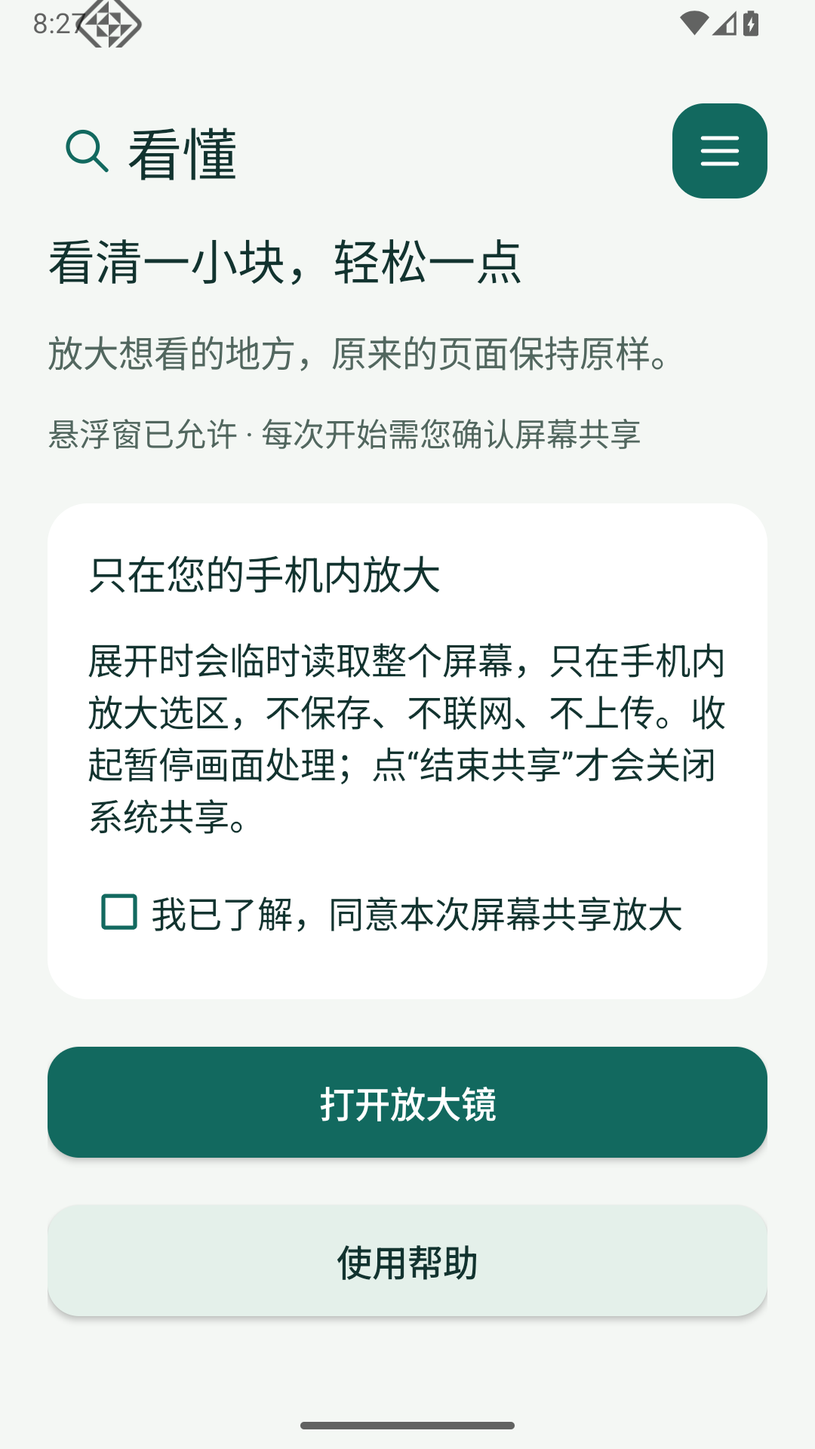
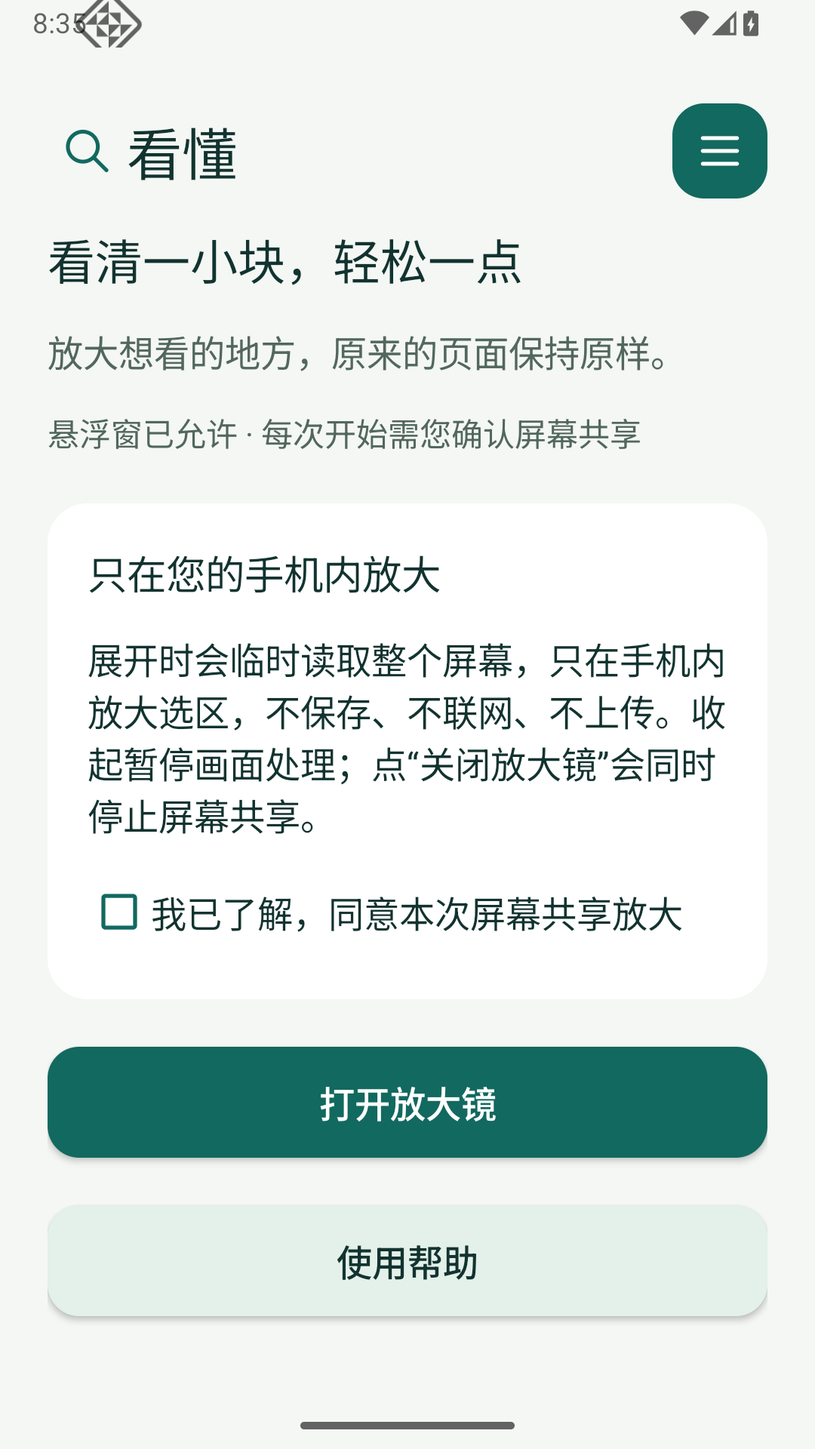
fix(compat): simplify menu navigation and session close labels

diff --git a/compat/src/main/java/com/kandong/compat/CompatUi.kt b/compat/src/main/java/com/kandong/compat/CompatUi.kt
@@ -9,7 +9,7 @@ import android.view.*
 import android.widget.*
 import kotlin.math.roundToInt
 
-internal enum class LineIcon { MAGNIFY, MENU, COLLAPSE, END, MOVE, RESIZE, CLOSE }
+internal enum class LineIcon { MAGNIFY, MENU, COLLAPSE, END, MOVE, RESIZE, CLOSE, BACK }
 internal class IconView(context: Context, private val icon: LineIcon, private val ink: Int = Color.WHITE) : View(context) {
     var corner = GripSide(true, true)
         set(value) { field = value; invalidate() }
@@ -24,6 +24,7 @@ internal class IconView(context: Context, private val icon: LineIcon, private va
             LineIcon.MENU -> { line(4f,6f,20f,6f); line(4f,12f,20f,12f); line(4f,18f,20f,18f) }
             LineIcon.COLLAPSE -> line(5f,16f,19f,16f)
             LineIcon.END, LineIcon.CLOSE -> { line(5f,5f,19f,19f); line(19f,5f,5f,19f) }
+            LineIcon.BACK -> { line(19f,12f,5f,12f); line(5f,12f,11f,6f); line(5f,12f,11f,18f) }
             LineIcon.MOVE -> {
                 line(3f,12f,21f,12f); line(12f,3f,12f,21f)
                 line(3f,12f,6f,9f); line(3f,12f,6f,15f); line(21f,12f,18f,9f); line(21f,12f,18f,15f)
@@ -45,9 +46,9 @@ internal object CompatUi {
     val muted = Color.rgb(82,103,95)
     val teal = Color.rgb(18,105,95)
     val soft = Color.rgb(228,240,234)
-    const val disclosure = "展开时会临时读取整个屏幕，只在手机内放大选区，不保存、不联网、不上传。收起暂停画面处理；点“结束共享”才会关闭系统共享。"
-    const val help = "1. 允许悬浮窗，勾选本次同意，再按提示允许屏幕共享。\n\n2. 拖动十字手柄移动取景框；拖动箭头手柄分别调节宽和高。\n\n3. 下方滑杆单独调节1到5倍，每次新使用默认2倍。放大后可在画面内滑动查看。镜面会自动上下避让。\n\n4. 到达屏幕边缘时，看到“松手贴边”后松开。取景框内仍可操作原来的页面。\n\n5. 点收起可暂时放到屏幕边缘；轻点圆球恢复，拖动可换位置，长按打开菜单。\n\n6. 点“× 关闭”按钮或菜单中的“结束共享”可关闭。锁屏或转动屏幕后需要重新开始。"
-    const val privacy = "屏幕共享由您每次亲自授权。系统会提供整屏缓冲区，看懂只在手机内复制选区用于放大，不录制、不保存、不上传，也不采集页面文字。\n\n收起或打开菜单时暂停画面采集并清除已有画面，但系统屏幕共享会话仍保留。结束共享后释放本次投屏资源。\n\n查看密码、银行等私密页面前，请先结束共享。受保护的画面可能显示为空白。\n\n目前无需登录。区域翻译、账号和订阅尚未提供；屏幕共享授权不代表同意文字识别或AI处理。"
+    const val disclosure = "展开时会临时读取整个屏幕，只在手机内放大选区，不保存、不联网、不上传。收起暂停画面处理；点“关闭放大镜”会同时停止屏幕共享。"
+    const val help = "1. 允许悬浮窗，勾选本次同意，再按提示允许屏幕共享。\n\n2. 拖动十字手柄移动取景框；拖动箭头手柄分别调节宽和高。\n\n3. 下方滑杆单独调节1到5倍，每次新使用默认2倍。放大后可在画面内滑动查看。镜面会自动上下避让。\n\n4. 到达屏幕边缘时，看到“松手贴边”后松开。取景框内仍可操作原来的页面。\n\n5. 点收起可暂时放到屏幕边缘；轻点圆球恢复，拖动可换位置，长按打开菜单。\n\n6. 点“× 关闭”按钮或菜单中的“关闭放大镜”会停止放大和屏幕共享。锁屏或转动屏幕后需要重新开始。"
+    const val privacy = "屏幕共享由您每次亲自授权。系统会提供整屏缓冲区，看懂只在手机内复制选区用于放大，不录制、不保存、不上传，也不采集页面文字。\n\n收起或打开菜单时暂停画面采集并清除已有画面，但系统屏幕共享会话仍保留。关闭放大镜后，屏幕共享也会停止。\n\n查看密码、银行等私密页面前，请先关闭放大镜。受保护的画面可能显示为空白。\n\n目前无需登录。区域翻译、账号和订阅尚未提供；屏幕共享授权不代表同意文字识别或AI处理。"
     fun dp(c: Context, n: Int) = (n * c.resources.displayMetrics.density).roundToInt().coerceAtLeast(1)
     fun shape(c: Context, color: Int, radius: Int = 20) = GradientDrawable().apply { setColor(color); cornerRadius = dp(c,radius).toFloat() }
     fun ripple(c: Context, color: Int, radius: Int = 16) = RippleDrawable(ColorStateList.valueOf(0x337CA99A),shape(c,color,radius),shape(c,Color.WHITE,radius))
@@ -76,23 +77,53 @@ internal object CompatUi {
         setPadding(dp(c,16),dp(c,10),dp(c,16),dp(c,10)); setOnClickListener { action() }
     }
     fun menu(c: Context, page: String?, close: () -> Unit, navigate: (String?) -> Unit, end: (() -> Unit)?): LinearLayout {
-        val body = LinearLayout(c).apply { orientation = LinearLayout.VERTICAL; setPadding(dp(c,20),dp(c,16),dp(c,20),dp(c,20)); background = shape(c,CompatUi.background) }
-        body.addView(text(c,page ?: "看懂",24f))
-        fun row(title: String, action: () -> Unit) { body.addView(button(c,title,action=action),LinearLayout.LayoutParams(-1,-2).apply { topMargin=dp(c,8) }) }
+        val header = LinearLayout(c).apply {
+            gravity=Gravity.CENTER_VERTICAL; minimumHeight=dp(c,56)
+            setPadding(dp(c,8),dp(c,8),dp(c,8),0)
+        }
+        fun headerIcon(icon: LineIcon, label: String, action: () -> Unit) = IconView(c,icon,ink).apply {
+            contentDescription=label; tooltipText=label; isFocusable=true
+            background=ripple(c,Color.TRANSPARENT)
+            setOnClickListener { action() }
+        }
+        if(page != null) header.addView(headerIcon(LineIcon.BACK,"返回主菜单") { navigate(null) },
+            LinearLayout.LayoutParams(dp(c,48),dp(c,48)))
+        else header.addView(View(c),LinearLayout.LayoutParams(dp(c,48),dp(c,48)))
+        header.addView(text(c,page ?: "菜单",22f).apply { gravity=Gravity.CENTER },
+            LinearLayout.LayoutParams(0,-2,1f))
+        header.addView(headerIcon(LineIcon.CLOSE,"关闭菜单",close),
+            LinearLayout.LayoutParams(dp(c,48),dp(c,48)))
+
+        val body = LinearLayout(c).apply {
+            orientation=LinearLayout.VERTICAL
+            setPadding(dp(c,20),dp(c,8),dp(c,20),dp(c,20))
+        }
+        fun row(title: String, action: () -> Unit) {
+            body.addView(button(c,title,action=action),LinearLayout.LayoutParams(-1,-2).apply { topMargin=dp(c,8) })
+        }
         if(page == null) {
-            row("使用帮助") { navigate("使用帮助") }; row("隐私说明") { navigate("隐私说明") }
-            for(title in listOf("区域翻译设置","账号与订阅")) body.addView(text(c,"$title · 规划中，暂不可用",16f,muted).apply { isEnabled=false; minimumHeight=dp(c,48) })
+            row("使用帮助") { navigate("使用帮助") }
+            row("隐私说明") { navigate("隐私说明") }
+            for(title in listOf("区域翻译设置","账号与订阅")) {
+                body.addView(text(c,"$title · 规划中，暂不可用",16f,muted).apply { isEnabled=false; minimumHeight=dp(c,48) })
+            }
             body.addView(text(c,"目前无需登录",14f,muted))
-        } else { body.addView(text(c,if(page=="使用帮助") help else privacy)); row("返回菜单") { navigate(null) } }
+        } else body.addView(text(c,if(page=="使用帮助") help else privacy))
+
         return LinearLayout(c).apply {
             orientation=LinearLayout.VERTICAL; background=shape(c,CompatUi.background)
+            addView(header,LinearLayout.LayoutParams(-1,-2))
             addView(ScrollView(c).apply { addView(body) },LinearLayout.LayoutParams(-1,0,1f))
-            val footer=LinearLayout(c).apply {
-                orientation=LinearLayout.VERTICAL; setPadding(dp(c,20),dp(c,8),dp(c,20),dp(c,16))
-                addView(button(c,"关闭菜单",action=close),LinearLayout.LayoutParams(-1,-2))
-                if(end!=null) addView(button(c,"结束共享",action=end),LinearLayout.LayoutParams(-1,-2).apply { topMargin=dp(c,8) })
+            // Session actions belong to the main menu, never to informational subpages.
+            if(page == null && end != null) {
+                val footer=LinearLayout(c).apply {
+                    orientation=LinearLayout.VERTICAL
+                    setPadding(dp(c,20),dp(c,8),dp(c,20),dp(c,12))
+                    addView(button(c,"关闭放大镜",action=end),LinearLayout.LayoutParams(-1,-2))
+                    addView(text(c,"同时停止屏幕共享",14f,muted).apply { gravity=Gravity.CENTER })
+                }
+                addView(footer,LinearLayout.LayoutParams(-1,-2))
             }
-            addView(footer,LinearLayout.LayoutParams(-1,-2))
         }
     }
 }

diff --git a/compat/src/main/java/com/kandong/compat/ProjectionMagnifierService.kt b/compat/src/main/java/com/kandong/compat/ProjectionMagnifierService.kt
@@ -186,8 +186,8 @@ class ProjectionMagnifierService : Service() {
         val paused = !uiState.capturing
         val notification = Notification.Builder(this, "magnifier").setSmallIcon(R.drawable.ic_magnifier)
             .setContentTitle(if(paused) "看懂已暂停画面采集" else "看懂正在本机放大屏幕")
-            .setContentText(if(paused) "屏幕共享会话仍保留，可恢复或结束共享" else "点开看懂可收起或结束共享")
-            .setContentIntent(open).addAction(Notification.Action.Builder(null,"结束共享",stop).build()).setOngoing(true).build()
+            .setContentText(if(paused) "屏幕共享会话仍保留，可恢复或关闭放大镜" else "点开看懂可收起或关闭放大镜")
+            .setContentIntent(open).addAction(Notification.Action.Builder(null,"关闭放大镜",stop).build()).setOngoing(true).build()
         startForeground(1, notification, ServiceInfo.FOREGROUND_SERVICE_TYPE_MEDIA_PROJECTION)
     }
     private fun awaitFrame() {
@@ -248,7 +248,7 @@ class ProjectionMagnifierService : Service() {
                 override fun onInitializeAccessibilityNodeInfo(host: View, info: android.view.accessibility.AccessibilityNodeInfo) {
                     super.onInitializeAccessibilityNodeInfo(host,info)
                     info.addAction(android.view.accessibility.AccessibilityNodeInfo.AccessibilityAction(0x01020001,"打开菜单"))
-                    info.addAction(android.view.accessibility.AccessibilityNodeInfo.AccessibilityAction(0x01020002,"结束共享"))
+                    info.addAction(android.view.accessibility.AccessibilityNodeInfo.AccessibilityAction(0x01020002,"关闭放大镜"))
                 }
                 override fun performAccessibilityAction(host: View, action: Int, args: Bundle?): Boolean = when(action) {
                     0x01020001 -> { transition { uiState.menu() }; true }
@@ -349,7 +349,7 @@ class ProjectionMagnifierService : Service() {
         message=TextView(this).apply { textSize=14f; setTextColor(Color.WHITE); gravity=Gravity.CENTER; maxLines=2 }
             .also { header.addView(it,LinearLayout.LayoutParams(0,-1,1f)) }
         tool(LineIcon.COLLAPSE,"收起放大镜","收起") { transition { uiState.collapse() } }
-        tool(LineIcon.END,"结束共享","关闭") { endSession() }
+        tool(LineIcon.END,"关闭放大镜","关闭") { endSession() }
         imageView = ImageView(this).apply {
             setBackgroundColor(Color.WHITE); scaleType = ImageView.ScaleType.MATRIX
             contentDescription = "取景框区域的原文放大画面；可在画面内滑动查看"

diff --git a/compat/src/main/java/com/kandong/compat/MainActivity.kt b/compat/src/main/java/com/kandong/compat/MainActivity.kt
@@ -65,7 +65,7 @@ class MainActivity : Activity() {
                 }
             }
         }.also { body.addView(it,LinearLayout.LayoutParams(-1,-2)) }
-        end=CompatUi.button(this,"结束共享") { command(ProjectionMagnifierService.ACTION_STOP) }
+        end=CompatUi.button(this,"关闭放大镜") { command(ProjectionMagnifierService.ACTION_STOP) }
             .also { body.addView(it,LinearLayout.LayoutParams(-1,-2).apply { topMargin=dp(12) }) }
         body.addView(CompatUi.button(this,"使用帮助") { openMenu("使用帮助") },LinearLayout.LayoutParams(-1,-2).apply { topMargin=dp(24) })
         val scroll=ScrollView(this).apply { setBackgroundColor(CompatUi.background); isFillViewport=true; addView(body) }
@@ -95,7 +95,21 @@ class MainActivity : Activity() {
         dialog?.dismiss()
         dialog=AlertDialog.Builder(this).create().apply {
             setView(CompatUi.menu(this@MainActivity,page,{dismiss()},{openMenu(it)},null))
+            setOnKeyListener { _, key, event ->
+                if(Build.VERSION.SDK_INT < 33 && page != null && key == KeyEvent.KEYCODE_BACK) {
+                    if(event.action == KeyEvent.ACTION_UP && isShowing && dialog === this) openMenu(null)
+                    true
+                } else false
+            }
             show(); window?.addFlags(WindowManager.LayoutParams.FLAG_SECURE)
+            if(Build.VERSION.SDK_INT >= 33 && page != null) {
+                val dispatcher=onBackInvokedDispatcher
+                val callback=android.window.OnBackInvokedCallback {
+                    if(isShowing && dialog === this) openMenu(null)
+                }
+                dispatcher.registerOnBackInvokedCallback(android.window.OnBackInvokedDispatcher.PRIORITY_DEFAULT,callback)
+                setOnDismissListener { dispatcher.unregisterOnBackInvokedCallback(callback) }
+            }
             window?.setLayout(minOf(dp(360),resources.displayMetrics.widthPixels-dp(32)),(resources.displayMetrics.heightPixels*.8f).toInt())
         }
     }

diff --git a/docs/VALIDATION.md b/docs/VALIDATION.md
@@ -173,3 +173,11 @@ AO只读设计202.6秒、实现347.4秒、独立审查164.0秒，未追加重复
 旧节点高亮原型不是当前放大镜验收。历史16单测通过，单项边框/触摸测试曾通过，但最后完整套件3项中1项失败（窗口时序保守拒绝）；已冻结至 `experiments/guidance`。`phase0-highlight.png` 是旧高亮图，不作为放大镜证据。
 
 图标补充修订为NORMAL局部UI修改：debug/release构建与Lint再次通过（`/private/tmp/kandong-icons-build.log`），复用39项逻辑测试证据，未为绘图/文案新增测试。专用模拟器实际点按新48dp工具按钮完成收起→恢复→关闭，全部窗口及共享释放；未改变会话逻辑。自身首页截图已更新，悬浮窗口仍受保护，最终图标可理解性由手机实看确认。
+
+## 菜单二级页与关闭文案修订
+
+按用户反馈，帮助/隐私二级页移除底部“关闭菜单/结束共享”，只保留固定顶部返回箭头、标题、关闭菜单图标及可滚动正文；主菜单底部提供“关闭放大镜 / 同时停止屏幕共享”。首页、通知、读屏标签和说明统一用语，结束动作仍释放本次共享与悬浮窗，不退出整个App或杀进程。
+
+本轮debug/release构建与Lint通过（`/private/tmp/kandong-menu-build.log`）；会话/几何逻辑未变，复用此前39项单测证据，没有为文案新增单测框架。专用API36的6项实际菜单检查通过，见[导航记录](evidence/phase0a-menu-navigation-runtime.json)：首页帮助顶部返回、隐私系统返回；悬浮帮助滚动时顶部导航位置不变/仍暂停处理；二级页关闭恢复展开；返回/关闭恢复收起；主菜单关闭放大镜释放投屏、服务及所有辅助窗口。两种二级页均无底部退出按钮，顶部导航点击范围至少48dp。
+
+测试先复现首页对话框在API36系统返回时直接关闭，修复为API33+使用Dialog.OnBackInvokedDispatcher，旧版保留返回键；对话框关闭时注销、迟到回调检查当前实例/可见性，避免重建已关闭菜单。修复后重跑上述实际导航通过。API31的旧返回键分支已编译，未借模拟器结果声称完成真机交互验收。目标华为安装此菜单版已返回Success，已打开看懂自身首页；手机最终视觉/理解反馈仍待补。

diff --git a/WORKLOG.md b/WORKLOG.md
@@ -101,3 +101,14 @@
 - 图标局部调整：横线收起、叉号关闭，各配短小标签且保留48dp点击范围；悬浮与首页放大镜去掉加号，统一简洁线条。保持所有手势与会话逻辑不变；本次为视觉/文案调整，不新增测试框架或AO调用。
 
 - 图标版debug/release/Lint通过，专用模拟器实际点按新工具控件，收起/恢复/关闭均通过；共享与窗口释放正确。保留既有39项逻辑测试，不为绘图追加镜像测试。已向目标华为提交本次更新，等待安装和图标反馈。
+
+## 2026-09-23 · 二级菜单与关闭文案
+
+- 用户指出帮助/隐私等二级页面底部重复“关闭菜单/结束共享”，并认为后者像退出程序。采用更准确的“关闭放大镜”，说明同时停止屏幕共享，保持原来的结束会话行为，不新增退出进程逻辑。
+- NORMAL局部范围，直接使用完成前验证方法，零AO/代理。二级页改为固定顶部返回箭头/标题/关闭图标，正文独立滚动，无底部退出操作；主菜单单独保留关闭放大镜。首页、通知、读屏标签和帮助说明统一用语，导航点击区域仍48dp。
+- 上次图标更新的安装任务本轮已返回Success；本次菜单版正在进行专用模拟器导航与停止验证，尚不把构建成功当作真机体验通过。
+
+- 专用API36复现并修复首页二级对话框系统返回直接关闭：API33+注册/注销官方返回回调，并保护迟到事件；旧版返回键处理不依赖新API。
+- 最终debug/release/Lint通过，6项菜单设备检查通过；二级页不再出现底部退出按钮，顶部导航滚动时固定，关闭可恢复原展开/收起状态，主菜单关闭放大镜释放全部资源。复用39项状态/几何单测证据，没有声称本轮重跑全套。文档与自身首页截图已同步，正在向目标华为安装本次修订。
+
+- 本次菜单版目标华为安装返回Success，已打开看懂自身首页；未自动确认屏幕共享或操作其他App。代码/设备回归完成，真机主观体验仍等待后续反馈。

diff --git a/README.md b/README.md
@@ -43,7 +43,7 @@ cd /Users/haoyuzuo/Projects/KanDong
 4. 切换到“看懂测试页”、Chrome 普通网页或其他非敏感 App。
 5. 拖动取景框旁的移动手柄选位置，拖动箭头角柄自由调整宽度和高度；旁边的倍率拉杆单独调节1～5倍，每次打开默认2倍。调红框大小不会改变倍率；超出放大窗的内容可直接在放大画面里上下、左右滑动查看。文字始终等比显示。取景框靠上，放大窗在下；取景框靠下，放大窗自动到上方。框内仍用于操作原 App。手柄到达屏幕边缘时继续向外拖一点，提示“松手贴边”后松开即可查看边缘。
 6. 点显示窗右上方“— 收起”，镜面与取景框会收为一个贴边放大镜按钮。可拖动按钮换位置，轻点恢复原选区、倍率和镜面滑动位置；长按按钮打开菜单。收起或打开菜单时暂停画面处理，但本次系统共享会话仍保留。
-7. 菜单提供使用帮助与隐私说明；翻译设置、账号、订阅标为暂不可用。本版无需登录。点“× 关闭”，或菜单/首页的“结束共享”，关闭共享及所有悬浮窗口。**锁屏后再解锁，放大窗消失是正常行为**；需要时回到看懂再点“打开放大镜”，重新确认本次屏幕共享。旋转后同样停止。
+7. 菜单提供使用帮助与隐私说明；二级页面顶部左箭头返回主菜单、右上角×关闭菜单，正文可滚动，底部不再重复显示退出操作。翻译设置、账号、订阅标为暂不可用。本版无需登录。点“× 关闭”，或主菜单/首页的“关闭放大镜”，关闭共享及所有悬浮窗口。**锁屏后再解锁，放大窗消失是正常行为**；需要时回到看懂再点“打开放大镜”，重新确认本次屏幕共享。旋转后同样停止。
 
 小选区配合低倍率时，镜面可能留白；这是按所选倍率显示的正常结果。查看其余放大内容时只滑动镜面；红框内部仍操作原App。
 

diff --git a/docs/UX.md b/docs/UX.md
@@ -26,13 +26,14 @@
 - 隐私说明：准确解释屏幕读取、暂停及结束。
 - 区域翻译设置：标注“准备中”，本版不执行翻译或提供假的开关。
 - 账户与订阅：标注“准备中”，本版无需登录，不展示虚构价格、购买或支付流程。
-- 会话运行中可“结束本次使用”；菜单关闭后返回进入前的展开或收起状态。
+- 会话运行时，只有主菜单底部提供“关闭放大镜”，并注明“同时停止屏幕共享”；它结束本次辅助会话，不主动退出首页或杀进程。
+- 帮助/隐私二级页只保留顶部返回箭头、页面标题和关闭菜单图标，正文独立滚动，底部没有重复的关闭菜单/结束按钮。关闭菜单返回进入前的展开或收起状态；左箭头及返回键回到主菜单。
 
 菜单为后续功能保留位置，不代表已实现OCR、翻译服务、账号系统或收费。上述功能需后续独立产品/数据/支付方案和验收。
 
 ## 收起与结束的区别
 
-收起及打开菜单时暂停画面处理，清除当前显示图像；保留本次系统共享，以便点一下恢复。系统可能仍显示共享标记。点“结束本次使用”才释放整个共享过程；锁屏、系统撤销共享、旋转或服务结束也统一清理。
+收起及打开菜单时暂停画面处理，清除当前显示图像；保留本次系统共享，以便点一下恢复。系统可能仍显示共享标记。点“关闭放大镜”才释放整个共享过程；锁屏、系统撤销共享、旋转或服务结束也统一清理。
 
 收起不意味着后台继续保存或上传屏幕，也不能在界面声称“共享已结束”。没有网络、页面文字日志、自动点击/输入或额外权限。菜单和悬浮按钮保持受保护窗口，测试时不为了截图解除保护。
 

diff --git a/docs/ARCHITECTURE.md b/docs/ARCHITECTURE.md
@@ -45,7 +45,7 @@ Kotlin2.2.20、AGP8.13.0、Gradle8.13、JDK17、compile/target36、Build Tools35
 
 收起/菜单先关闭处理入口，取消手势与延时任务，将同一个VirtualDisplay的surface设为null，清除局部Bitmap和队列图像，移除镜面/源框/手柄窗口。只留下56dp可拖动按钮或安全菜单。恢复复用原VirtualDisplay与ImageReader.surface，保留选区、倍率、镜面偏移及显示侧，等待新帧，不重复创建虚拟显示。此时系统共享token仍有效，界面和通知明确区分“暂停处理”与“结束共享”。
 
-`BubbleGesture`负责触点、点击/拖动阈值、四侧安全区和左右贴边；拖出阈值再回原位、多指、取消或长按均不触发点击恢复。菜单使用有边界的FLAG_SECURE窗口，帮助/隐私可阅读，关闭返回进入前状态；未提供的翻译、账号和订阅没有实际操作入口。`CompatUi`统一本地线条图标、颜色、圆角与至少48dp触摸目标。
+`BubbleGesture`负责触点、点击/拖动阈值、四侧安全区和左右贴边；拖出阈值再回原位、多指、取消或长按均不触发点击恢复。菜单使用有边界的FLAG_SECURE窗口，固定顶部导航、独立滚动正文；主菜单提供“关闭放大镜”，帮助/隐私二级页不显示会话退出按钮，关闭菜单返回进入前状态；未提供的翻译、账号和订阅没有实际操作入口。`CompatUi`统一本地线条图标、颜色、圆角与至少48dp触摸目标。
 
 工具栏48dp+倍率栏48dp共同计入`MagnifierLayout`可避让空间，图像区据此重算，不能增加控制条后继续沿用旧图像高度。结束、锁屏、撤销、配置/显示旋转通过同一终止路径移除全部窗口，先设置终止状态再释放监听器、投屏及前台服务；重入清理安全。
 

diff --git a/docs/ATTRIBUTION.md b/docs/ATTRIBUTION.md
@@ -32,3 +32,5 @@ Gradle Wrapper由官方 Gradle8.13 wrapper task生成；Gradle、Kotlin及Androi
 收起/恢复参考官方[VirtualDisplay.setSurface](https://developer.android.com/reference/android/hardware/display/VirtualDisplay#setSurface(android.view.Surface))的null断开语义，恢复复用同一次虚拟显示；遵守[MediaProjection每次授权规则](https://developer.android.com/media/grow/media-projection#user-consent)。图标由本项目线条绘制，未复制外部图标库；点击区域及标签参考[Android无障碍Views建议](https://developer.android.com/guide/topics/ui/accessibility/views/apps-views)。
 
 API29安全区使用官方[WindowInsets stable insets与DisplayCutout](https://developer.android.com/reference/android/view/WindowInsets)合并系统栏和刘海边界，由本次授权Activity传入私有服务，未知时不按零处理。
+
+菜单二级页返回使用[Dialog的OnBackInvokedDispatcher](https://developer.android.com/reference/android/app/Dialog#getOnBackInvokedDispatcher())处理API33+系统返回，旧版本保留返回键处理；关闭对话框注销回调，迟到回调不重建页面。

diff --git a/TASKS.md b/TASKS.md
@@ -24,7 +24,8 @@
 - [x] 新规则目标华为复验：用户确认自由选区、独立滑杆、镜面滑动均正常；实际抽样2.44倍与绘制矩阵一致
 - [ ] 新交互目标华为完整场景复验：自动换位、浏览器/第三方App、停止/锁屏及长辈操作反馈
 - [x] UI/UX：收起/恢复悬浮按钮、图标控制、精简首页与菜单；39单测/构建/Lint及模拟器暂停、恢复、菜单、清理回归
-- [ ] UI/UX目标华为：新版已安装；调整收起/关闭及悬浮按钮图标后复验
+- [ ] UI/UX目标华为：新版已安装；收起/关闭及悬浮图标已调整；菜单精简后整体视觉复验
+- [x] 菜单精简：二级页顶部返回/关闭，主菜单“关闭放大镜”；构建/Lint和6项实际导航/停止检查通过
 - [ ] 更多第三方App细项及长辈操作反馈
 - [ ] Phase0A真机Go/No-Go及“源框/镜面分开”UX判断
 - [ ] 原生最低API33、其他OEM、镜框手指移动/尺寸、共存测试
